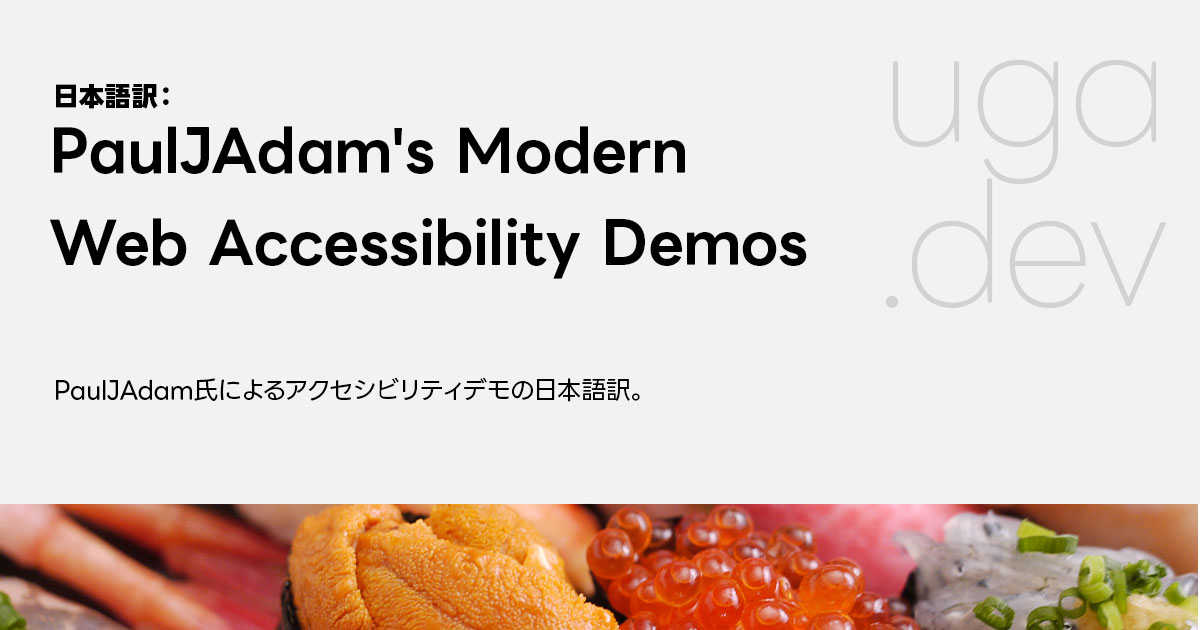
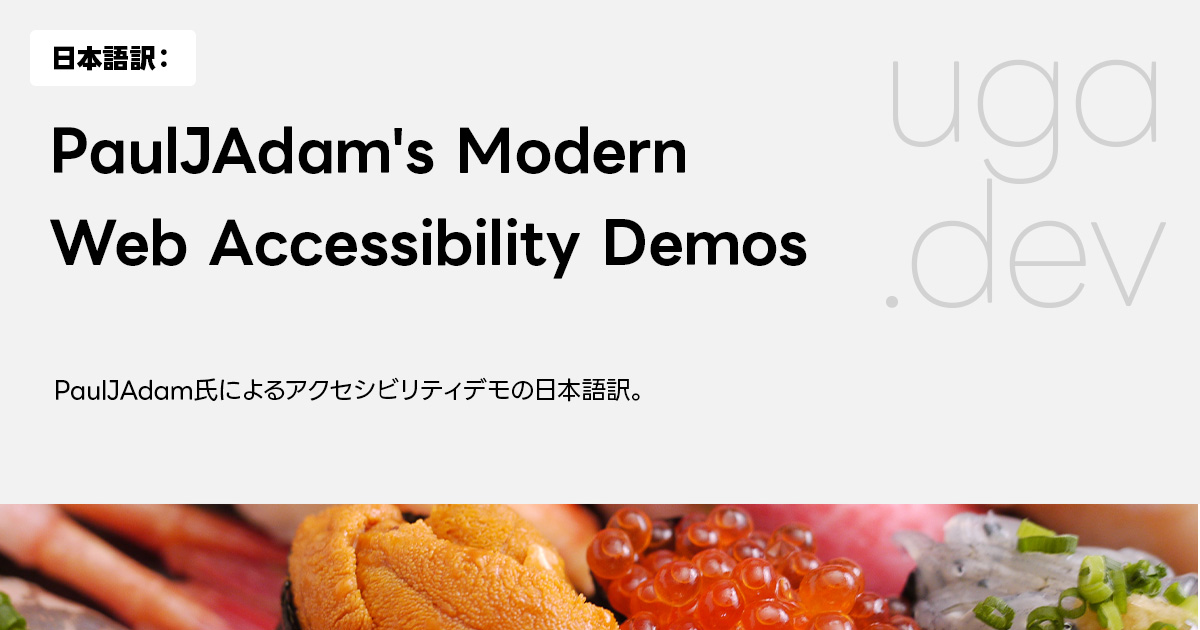
Update metadata

Changed region(s): [[0.0308, 0.0603, 0.1542, 0.181]]

diff --git a/_temp/page.tsx b/_temp/page.tsx
@@ -4,8 +4,13 @@ import '@/../_temp/page.css';
 import type { Metadata } from 'next';
 
 export const metadata: Metadata & { title: string } = {
-  title: 'アクセシブル施策の失敗例',
+  title: "アクセシブル施策の失敗例",
   description: 'Web開発者の物置。',
+  twitter: {
+    card: 'summary_large_image',
+    title: 'アクセシブル施策の失敗例',
+    description: 'Web開発者の物置。',
+  },
 };
 
 export default function Page() {

diff --git a/src/app/(ja)/(common)/documents/fantasized-specs/page.tsx b/src/app/(ja)/(common)/documents/fantasized-specs/page.tsx
@@ -3,8 +3,13 @@ import { PageTitle } from '@/components/structures/PageTitle';
 import type { Metadata } from 'next';
 
 export const metadata: Metadata & { title: string } = {
-  title: 'Fantasized specs',
+  title: "Fantasized specs",
   description: '日々業務の中で思いついた「あんなこといいなできたらいいな」集。',
+  twitter: {
+    card: 'summary_large_image',
+    title: 'Fantasized specs',
+    description: '日々業務の中で思いついた「あんなこといいなできたらいいな」集。',
+  },
 };
 
 export default function Page() {

diff --git a/src/app/(ja)/(common)/documents/page.tsx b/src/app/(ja)/(common)/documents/page.tsx
@@ -38,6 +38,11 @@ export default function Page() {
 }
 
 export const metadata: Metadata = {
-  title: '資料集',
+  title: "資料集",
   description: 'ドキュメント系をまとめた階層です。',
+  twitter: {
+    card: 'summary_large_image',
+    title: '資料集',
+    description: 'ドキュメント系をまとめた階層です。',
+  },
 };

diff --git a/src/app/(ja)/(common)/documents/translations/page.tsx b/src/app/(ja)/(common)/documents/translations/page.tsx
@@ -40,6 +40,11 @@ export default function Page() {
 }
 
 export const metadata: Metadata = {
-  title: '日本語訳集 | 資料集',
+  title: "日本語訳集 | 資料集",
   description: '仕様書など、外部資料を日本語訳したものをまとめた階層です。',
+  twitter: {
+    card: 'summary_large_image',
+    title: '日本語訳集 | 資料集',
+    description: '仕様書など、外部資料を日本語訳したものをまとめた階層です。',
+  },
 };

diff --git a/src/app/(ja)/(common)/documents/translations/w3c/wai/tutorials/images/page.tsx b/src/app/(ja)/(common)/documents/translations/w3c/wai/tutorials/images/page.tsx
@@ -236,6 +236,11 @@ export default function Page() {
 }
 
 export const metadata: Metadata = {
-  title: '日本語訳：Images Tutorial',
+  title: "日本語訳：Images Tutorial",
   description: 'WAI(W3C)による代替テキストに関するチュートリアルの日本語訳。',
+  twitter: {
+    card: 'summary_large_image',
+    title: '日本語訳：Images Tutorial',
+    description: 'WAI(W3C)による代替テキストに関するチュートリアルの日本語訳。',
+  },
 };

diff --git a/src/app/(ja)/(common)/tools/accessible-name-and-description-computation/page.tsx b/src/app/(ja)/(common)/tools/accessible-name-and-description-computation/page.tsx
@@ -61,6 +61,11 @@ export default function Page() {
 }
 
 export const metadata: Metadata = {
-  title: 'Playground: Accessible Name and Description Computation',
+  title: "Playground: Accessible Name and Description Computation",
   description: 'アクセシブルな名前および説明がどう計算されるかをテストするためのページです。',
+  twitter: {
+    card: 'summary_large_image',
+    title: 'Playground: Accessible Name and Description Computation',
+    description: 'アクセシブルな名前および説明がどう計算されるかをテストするためのページです。',
+  },
 };

diff --git a/src/app/(ja)/(common)/tools/dom-events-watcher/page.tsx b/src/app/(ja)/(common)/tools/dom-events-watcher/page.tsx
@@ -29,6 +29,11 @@ export default function Page() {
 }
 
 export const metadata: Metadata = {
-  title: 'DOM Event Watcher',
+  title: "DOM Event Watcher",
   description: 'JavaScriptがどのようなイベントを受け取るのかを確認できます。',
+  twitter: {
+    card: 'summary_large_image',
+    title: 'DOM Event Watcher',
+    description: 'JavaScriptがどのようなイベントを受け取るのかを確認できます。',
+  },
 };

diff --git a/src/app/(ja)/(common)/tools/page.tsx b/src/app/(ja)/(common)/tools/page.tsx
@@ -50,6 +50,11 @@ export default function Page() {
 }
 
 export const metadata: Metadata = {
-  title: 'ツール集',
+  title: "ツール集",
   description: '作ったものをまとめている階層です。',
+  twitter: {
+    card: 'summary_large_image',
+    title: 'ツール集',
+    description: '作ったものをまとめている階層です。',
+  },
 };

diff --git a/src/app/(ja)/(pauljadam-modern-web-a11y-demos)/documents/translations/pauljadam-modern-web-a11y-demos/alerttimer/page.tsx b/src/app/(ja)/(pauljadam-modern-web-a11y-demos)/documents/translations/pauljadam-modern-web-a11y-demos/alerttimer/page.tsx
@@ -3,8 +3,13 @@ import { DocumentScript } from '@/app/(ja)/(pauljadam-modern-web-a11y-demos)/doc
 import type { Metadata } from 'next';
 
 export const metadata: Metadata & { title: string } = {
-  title: 'WAI-ARIAのrole="alert"とsetTimeout - PaulJAdam\'s Modern Web Accessibility Demos',
+  title: "WAI-ARIAのrole=\"alert\"とsetTimeout - PaulJAdam\'s Modern Web Accessibility Demos",
   description: 'PaulJAdam氏によるアクセシビリティデモの日本語訳。',
+  twitter: {
+    card: 'summary_large_image',
+    title: 'WAI-ARIAのrole="alert"とsetTimeout - PaulJAdam\'s Modern Web Accessibility Demos',
+    description: 'PaulJAdam氏によるアクセシビリティデモの日本語訳。',
+  },
 };
 
 export default function Page() {

diff --git a/src/app/(ja)/(pauljadam-modern-web-a11y-demos)/documents/translations/pauljadam-modern-web-a11y-demos/aria-alert-validation/page.tsx b/src/app/(ja)/(pauljadam-modern-web-a11y-demos)/documents/translations/pauljadam-modern-web-a11y-demos/aria-alert-validation/page.tsx
@@ -3,8 +3,13 @@ import { DocumentScript } from '@/app/(ja)/(pauljadam-modern-web-a11y-demos)/doc
 import type { Metadata } from 'next';
 
 export const metadata: Metadata & { title: string } = {
-  title: 'ARIA Live Regionsまたはrole="alert"を使用してエラーを特定する - PaulJAdam\'s Modern Web Accessibility Demos',
+  title: "ARIA Live Regionsまたはrole=\"alert\"を使用してエラーを特定する - PaulJAdam\'s Modern Web Accessibility Demos",
   description: 'PaulJAdam氏によるアクセシビリティデモの日本語訳。',
+  twitter: {
+    card: 'summary_large_image',
+    title: 'ARIA Live Regionsまたはrole="alert"を使用してエラーを特定する - PaulJAdam\'s Modern Web Accessibility Demos',
+    description: 'PaulJAdam氏によるアクセシビリティデモの日本語訳。',
+  },
 };
 
 export default function Page() {

diff --git a/src/app/(ja)/(pauljadam-modern-web-a11y-demos)/documents/translations/pauljadam-modern-web-a11y-demos/aria-invalid/page.tsx b/src/app/(ja)/(pauljadam-modern-web-a11y-demos)/documents/translations/pauljadam-modern-web-a11y-demos/aria-invalid/page.tsx
@@ -5,8 +5,13 @@ import '@/app/(ja)/(pauljadam-modern-web-a11y-demos)/documents/translations/paul
 import type { Metadata } from 'next';
 
 export const metadata: Metadata & { title: string } = {
-  title: 'aria-invalid="true"の実装例 - PaulJAdam\'s Modern Web Accessibility Demos',
+  title: "aria-invalid=\"true\"の実装例 - PaulJAdam\'s Modern Web Accessibility Demos",
   description: 'PaulJAdam氏によるアクセシビリティデモの日本語訳。',
+  twitter: {
+    card: 'summary_large_image',
+    title: 'aria-invalid="true"の実装例 - PaulJAdam\'s Modern Web Accessibility Demos',
+    description: 'PaulJAdam氏によるアクセシビリティデモの日本語訳。',
+  },
 };
 
 export default function Page() {

diff --git a/src/app/(ja)/(common)/documents/translations/pauljadam-modern-web-a11y-demos/page.tsx b/src/app/(ja)/(common)/documents/translations/pauljadam-modern-web-a11y-demos/page.tsx
@@ -162,4 +162,9 @@ export default function Page() {
 export const metadata: Metadata = {
   title: "日本語訳：PaulJAdam's Modern Web Accessibility Demos",
   description: 'PaulJAdam氏によるアクセシビリティデモの日本語訳。',
+  twitter: {
+    card: 'summary_large_image',
+    title: "日本語訳：PaulJAdam's Modern Web Accessibility Demos",
+    description: 'PaulJAdam氏によるアクセシビリティデモの日本語訳。',
+  },
 };